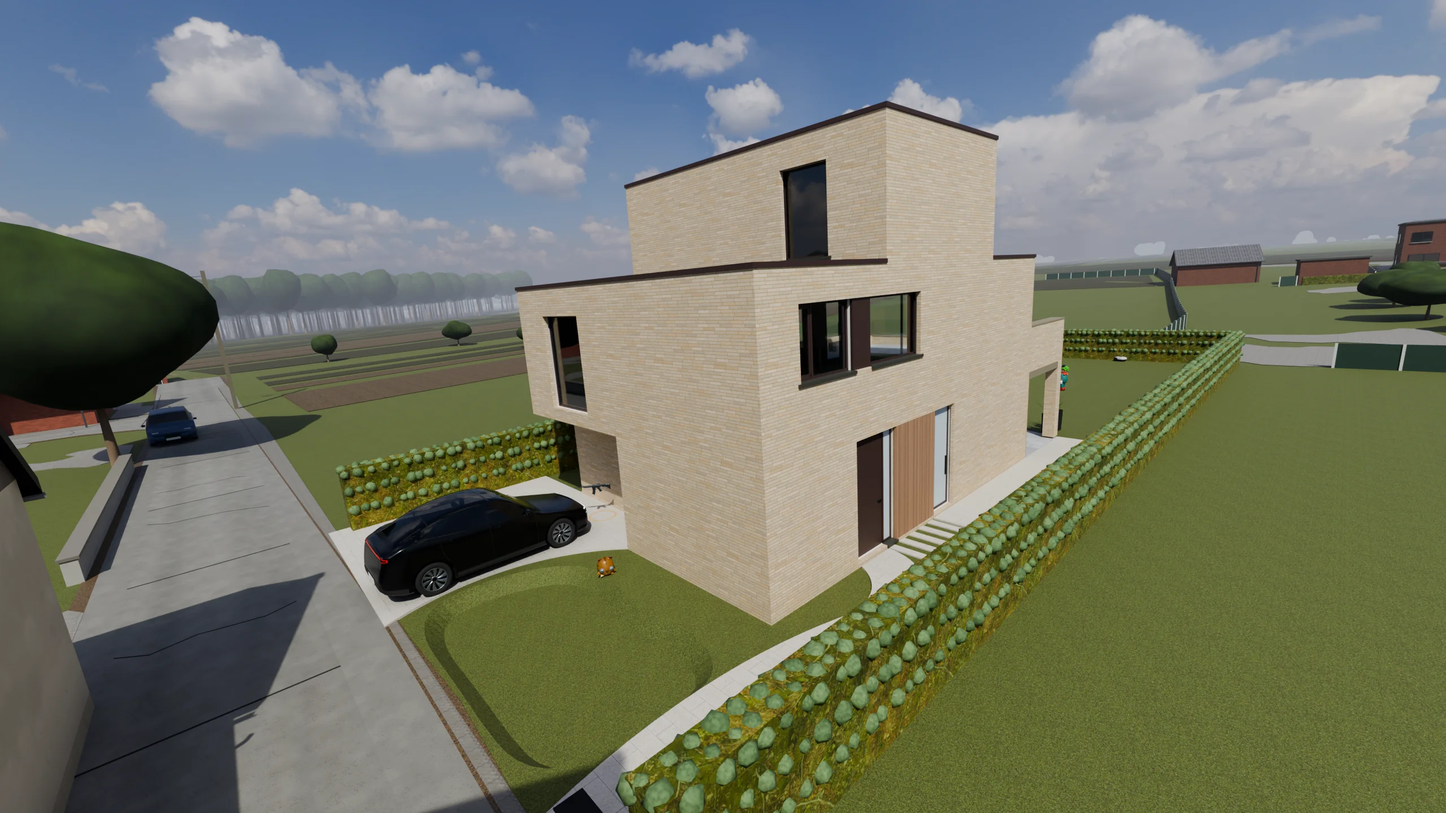
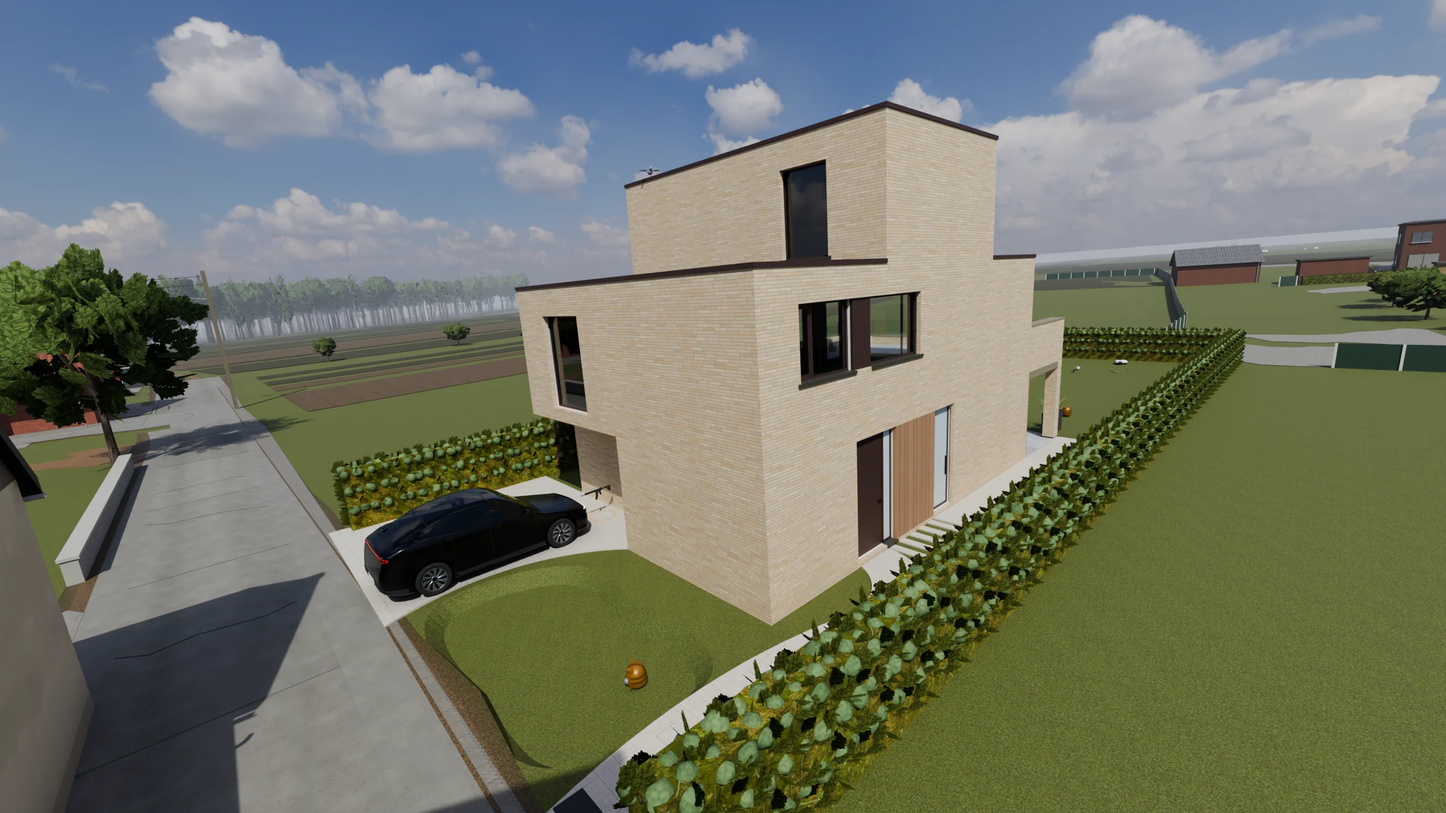
Start screen: the stills rendered again from this round's world, and four new ones in the slideshow
Yoshi asked for the start screen's stills again after this round. All eight older pictures are
rendered again (tools/still/, Blender Cycles), now with the leaf-card trees, the hedges' sprigs,
the street materials, the new signs, people in the streets and the right vertex colours.

Four new pictures join them, with captions in English and Dutch: FC Smetlede's training under
the floodlights at dusk, a street off the church square at night after the rain, the church
square with its village board, and the tree huts by the lit café Sparrenhof at dusk. Each puts
its subject right of the middle, clear of the start panel. Day and dusk, night or rain take
turns over the twelve.

On a phone twelve dots made the bar wider than the screen (its back button was cut off on the
legal pages); there the dots are a little narrower now.

Made with: node tools/still/export_view.mjs <view> <dir> --url <dev server>, then
blender -b -P tools/still/render_still.py -- <dir> <out.png> 2560 256, then
tools/.venv/Scripts/python.exe tools/still/encode_still.py <out.png> web/public/start <view>.

Claude-Session: https://claude.ai/code/session_01SZHxLo9gvS2EbfpbHaJ3PJ

diff --git a/web/public/slides/slides.js b/web/public/slides/slides.js
@@ -1,7 +1,8 @@
 // The slideshow of renders behind the start screen and the site's other pages: the town with its
-// church and school, by day and at night, the house, Molenhoek in the rain, the bungalow, the
-// school's playground, a parachute over the town at dusk and the café Sparrenhof (tools/still/,
-// Blender), day and night or rain taking turns. Any element with
+// church and school, by day and at night, FC Smetlede's training under the floodlights, the house,
+// a wet street at night, the church square with its board, the bungalow, the tree huts by the café
+// Sparrenhof at dusk, the school's playground, Molenhoek in the rain, the café by day and a parachute
+// over the town at dusk (tools/still/, Blender), day and dusk, night or rain taking turns. Any element with
 // data-slides becomes one; class "bg" fills the window behind the page, class "hero" is a band at
 // the top. Back, pause and next buttons and a dot per slide go into the element, or into
 // [data-slides-controls] when the page has one (a footer, so they never cover the page on a phone).
@@ -12,13 +13,17 @@
 (() => {
   const SLIDES = [
     { src: '/start/town', focus: '72% 50%', nl: 'Smetlede: de kerk en de school', en: 'Smetlede: the church and the school' },
-    { src: '/start/town-night', focus: '62% 50%', nl: 'Smetlede bij nacht', en: 'Smetlede at night' },
+    { src: '/start/football', focus: '66% 50%', nl: 'FC Smetlede: training onder de schijnwerpers', en: 'FC Smetlede: training under the floodlights' },
     { src: '/start/house', focus: '58% 45%', nl: 'Het nieuwe huis', en: 'The new house' },
-    { src: '/start/street-rain', focus: '50% 50%', nl: 'Molenhoek in de regen', en: 'Molenhoek in the rain' },
+    { src: '/start/street-night', focus: '60% 50%', nl: 'Smetlede bij nacht, na de regen', en: 'Smetlede at night, after the rain' },
+    { src: '/start/square', focus: '64% 50%', nl: 'Smetlede: het kerkplein met het dorpsbord', en: 'Smetlede: the church square and its village board' },
+    { src: '/start/town-night', focus: '62% 50%', nl: 'Smetlede bij nacht', en: 'Smetlede at night' },
     { src: '/start/bungalow', focus: '66% 50%', nl: 'De bungalow', en: 'The bungalow' },
+    { src: '/start/sparrenhof-dusk', focus: '62% 50%', nl: 'De boomhutten bij café Sparrenhof in de schemering', en: 'The tree huts by café Sparrenhof at dusk' },
     { src: '/start/school', focus: '60% 50%', nl: 'Smetlede: de speelplaats van de school', en: "Smetlede: the school's playground" },
-    { src: '/start/parachute', focus: '68% 50%', nl: 'Met de parachute boven Smetlede', en: 'By parachute over Smetlede' },
+    { src: '/start/street-rain', focus: '50% 50%', nl: 'Molenhoek in de regen', en: 'Molenhoek in the rain' },
     { src: '/start/sparrenhof', focus: '50% 50%', nl: 'Café Sparrenhof aan het bos', en: 'Café Sparrenhof by the wood' },
+    { src: '/start/parachute', focus: '68% 50%', nl: 'Met de parachute boven Smetlede', en: 'By parachute over Smetlede' },
   ];
   const WORDS = {
     nl: { prev: 'Vorige', next: 'Volgende', pause: 'Pauzeren', play: 'Afspelen', go: 'Naar beeld {n}: {c}', label: 'Beelden uit het spel' },

diff --git a/web/public/slides/slides.css b/web/public/slides/slides.css
@@ -21,3 +21,5 @@
 .slides-dot[aria-current="true"]::after { background: #f2b33d; inset: 6px; }
 .slides-caption { padding: 0 6px 0 4px; white-space: nowrap; overflow: hidden; text-overflow: ellipsis; max-width: 260px; opacity: 0.9; }
 @media (max-width: 520px) { .slides-caption { display: none; } }
+/* A phone: twelve dots a little narrower, so the bar with its buttons fits across the screen. */
+@media (max-width: 520px) { .slides-dots { gap: 0; } .slides-dot { width: 18px; } .slides-dot::after { inset: 7px 5px; } .slides-dot[aria-current="true"]::after { inset: 6px 4px; } }
